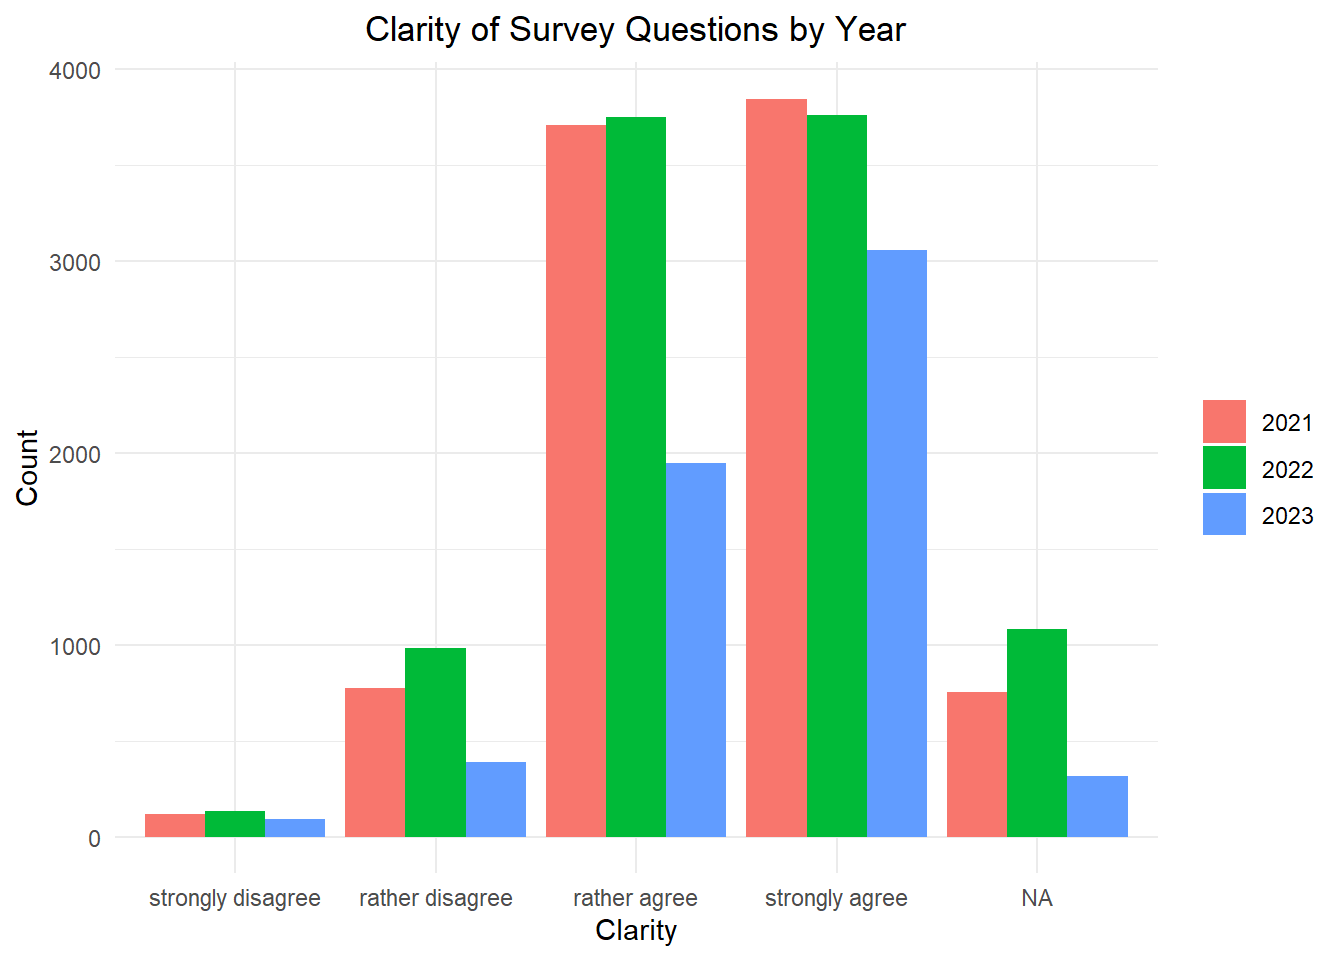
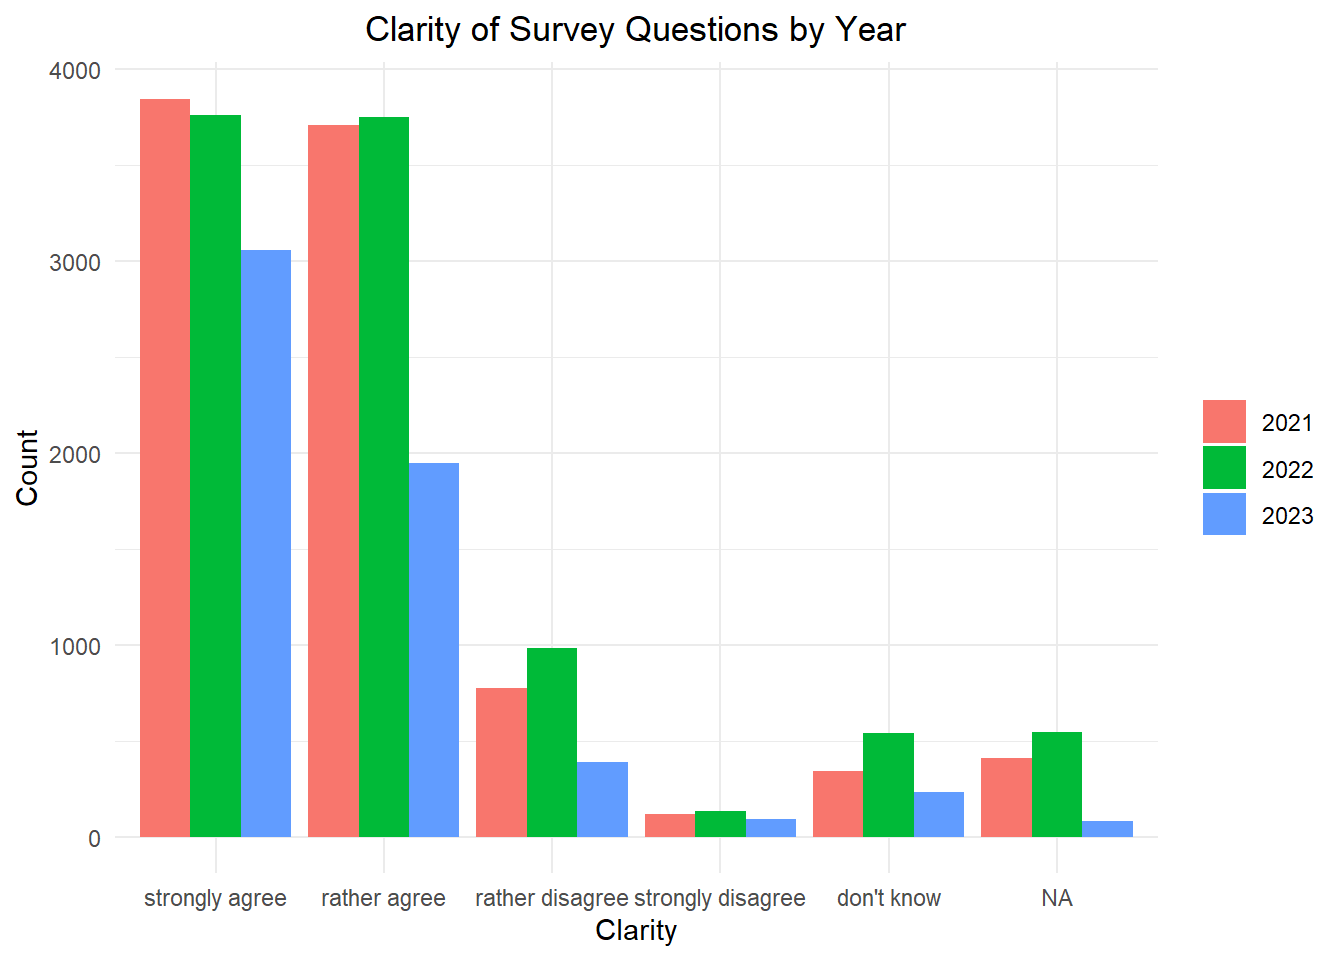
Recode likert scale answers to factors

diff --git a/analysis_notebooks/sample_characteristics.html b/analysis_notebooks/sample_characteristics.html
@@ -889,34 +889,40 @@ ul.task-list li input[type="checkbox"] {
 </thead>
 <tbody>
 <tr class="odd">
-<td style="text-align: left;">strongly disagree</td>
-<td style="text-align: right;">120</td>
-<td style="text-align: right;">132</td>
-<td style="text-align: right;">91</td>
-</tr>
-<tr class="even">
-<td style="text-align: left;">rather disagree</td>
-<td style="text-align: right;">774</td>
-<td style="text-align: right;">984</td>
-<td style="text-align: right;">389</td>
-</tr>
-<tr class="odd">
-<td style="text-align: left;">rather agree</td>
-<td style="text-align: right;">3711</td>
-<td style="text-align: right;">3749</td>
-<td style="text-align: right;">1945</td>
-</tr>
-<tr class="even">
 <td style="text-align: left;">strongly agree</td>
 <td style="text-align: right;">3846</td>
 <td style="text-align: right;">3762</td>
 <td style="text-align: right;">3055</td>
 </tr>
+<tr class="even">
+<td style="text-align: left;">rather agree</td>
+<td style="text-align: right;">3711</td>
+<td style="text-align: right;">3749</td>
+<td style="text-align: right;">1945</td>
+</tr>
 <tr class="odd">
+<td style="text-align: left;">rather disagree</td>
+<td style="text-align: right;">774</td>
+<td style="text-align: right;">984</td>
+<td style="text-align: right;">389</td>
+</tr>
+<tr class="even">
+<td style="text-align: left;">strongly disagree</td>
+<td style="text-align: right;">120</td>
+<td style="text-align: right;">132</td>
+<td style="text-align: right;">91</td>
+</tr>
+<tr class="odd">
+<td style="text-align: left;">don't know</td>
+<td style="text-align: right;">342</td>
+<td style="text-align: right;">538</td>
+<td style="text-align: right;">231</td>
+</tr>
+<tr class="even">
 <td style="text-align: left;">NA</td>
-<td style="text-align: right;">752</td>
-<td style="text-align: right;">1081</td>
-<td style="text-align: right;">314</td>
+<td style="text-align: right;">410</td>
+<td style="text-align: right;">543</td>
+<td style="text-align: right;">83</td>
 </tr>
 </tbody>
 </table>
@@ -934,7 +940,7 @@ ul.task-list li input[type="checkbox"] {
 </div>
 </div>
 <p>When investigated in relation to response time, the most notable deviation in distribution can be seen in those not answering the clarity question. These respondents tended to finish the survey more quickly.</p>
-<p>However, the number of respondents who took less than three minutest for the survey and indicated low clarity (or did not answer the clarity question only lies at 37.</p>
+<p>However, the number of respondents who took less than three minutes for the survey and indicated low clarity (or did not answer the clarity question) only lies at 88.</p>
 </section>
 
 </main>
